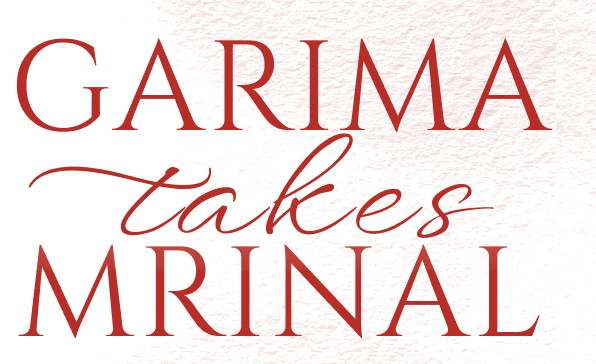
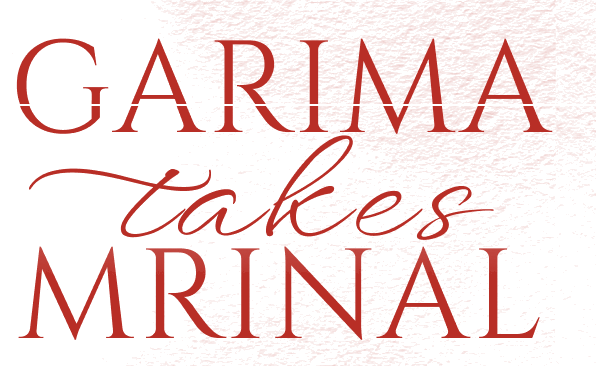
Increase gap between GARIMA and takes by 2px, and update arch curve to begin higher up at edges as in design reference

diff --git a/index.html b/index.html
@@ -23,7 +23,7 @@
 <link rel="preconnect" href="https://fonts.googleapis.com">
 <link rel="preconnect" href="https://fonts.gstatic.com" crossorigin>
 <link href="https://fonts.googleapis.com/css2?family=Cinzel:wght@400;500;600;700&family=Cormorant+Garamond:ital,wght@0,300;0,400;0,500;0,600;0,700;1,400;1,500&family=Spectral:wght@200;300;400;500;600;700&family=WindSong&display=swap" rel="stylesheet">
-<link rel="stylesheet" href="css/site.css?v=2860">
+<link rel="stylesheet" href="css/site.css?v=2880">
 <style>
 @font-face {
   font-family: 'WindSong';
@@ -244,15 +244,18 @@ html, body {
 }
 
 
-/* ── Semi-circular Background Arch (Pixel-Perfect 60% White Dome) ── */
+/* ── Semi-circular Background Arch (Gentle Sweeping 60% White Dome) ── */
 .home-bottom-arch {
   position: absolute;
   bottom: 0;
   left: 0;
   width: 100%;
-  height: calc(162px + env(safe-area-inset-bottom, 0px));
+  height: calc(185px + env(safe-area-inset-bottom, 0px));
   background: rgba(255, 255, 255, 0.60) !important;
-  border-radius: 50% 50% 0 0 / 100% 100% 0 0;
+  border-top-left-radius: 50% 70px;
+  border-top-right-radius: 50% 70px;
+  border-bottom-left-radius: 0;
+  border-bottom-right-radius: 0;
   pointer-events: none;
   z-index: 4;
   transform-origin: bottom center;
@@ -552,7 +555,7 @@ html, body {
     <!-- ── 3. Central Typography Monogram (Pixel-by-Pixel Master Artwork) ── -->
   <div class="home-hero-text">
     <div class="home-monogram-wrap">
-      <img src="images/garima_takes_mrinal.png" alt="GARIMA takes MRINAL" class="home-monogram-img">
+      <img src="images/garima_takes_mrinal.png?v=2880" alt="GARIMA takes MRINAL" class="home-monogram-img">
     </div>
 
     <div class="home-date-location">
@@ -857,7 +860,7 @@ document.addEventListener('DOMContentLoaded', function() {
   }
 });
 </script>
-<script src="js/spa-nav.js?v=2860"></script>
-<script src="js/global-audio.js?v=2860"></script>
+<script src="js/spa-nav.js?v=2880"></script>
+<script src="js/global-audio.js?v=2880"></script>
 </body>
 </html>
